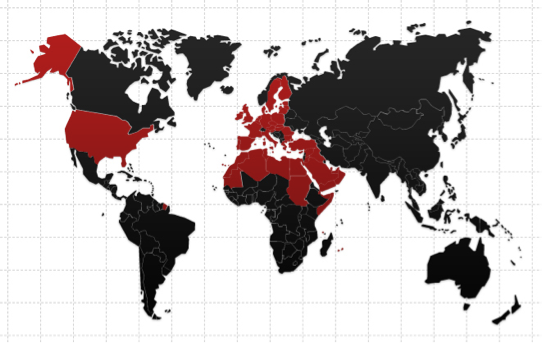
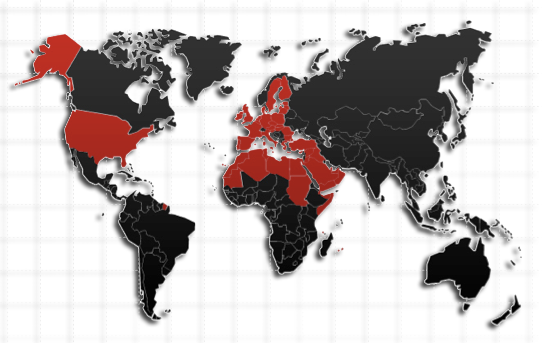
my commit

diff --git a/css/styles.css b/css/styles.css
@@ -10,7 +10,7 @@ body {
     background: url('../img/bg2.png');
     background-size: 100% auto;
     background-repeat: no-repeat;
-    background-position: center 30%;
+    background-position: center 45%;
 }
 
 .header-style {
